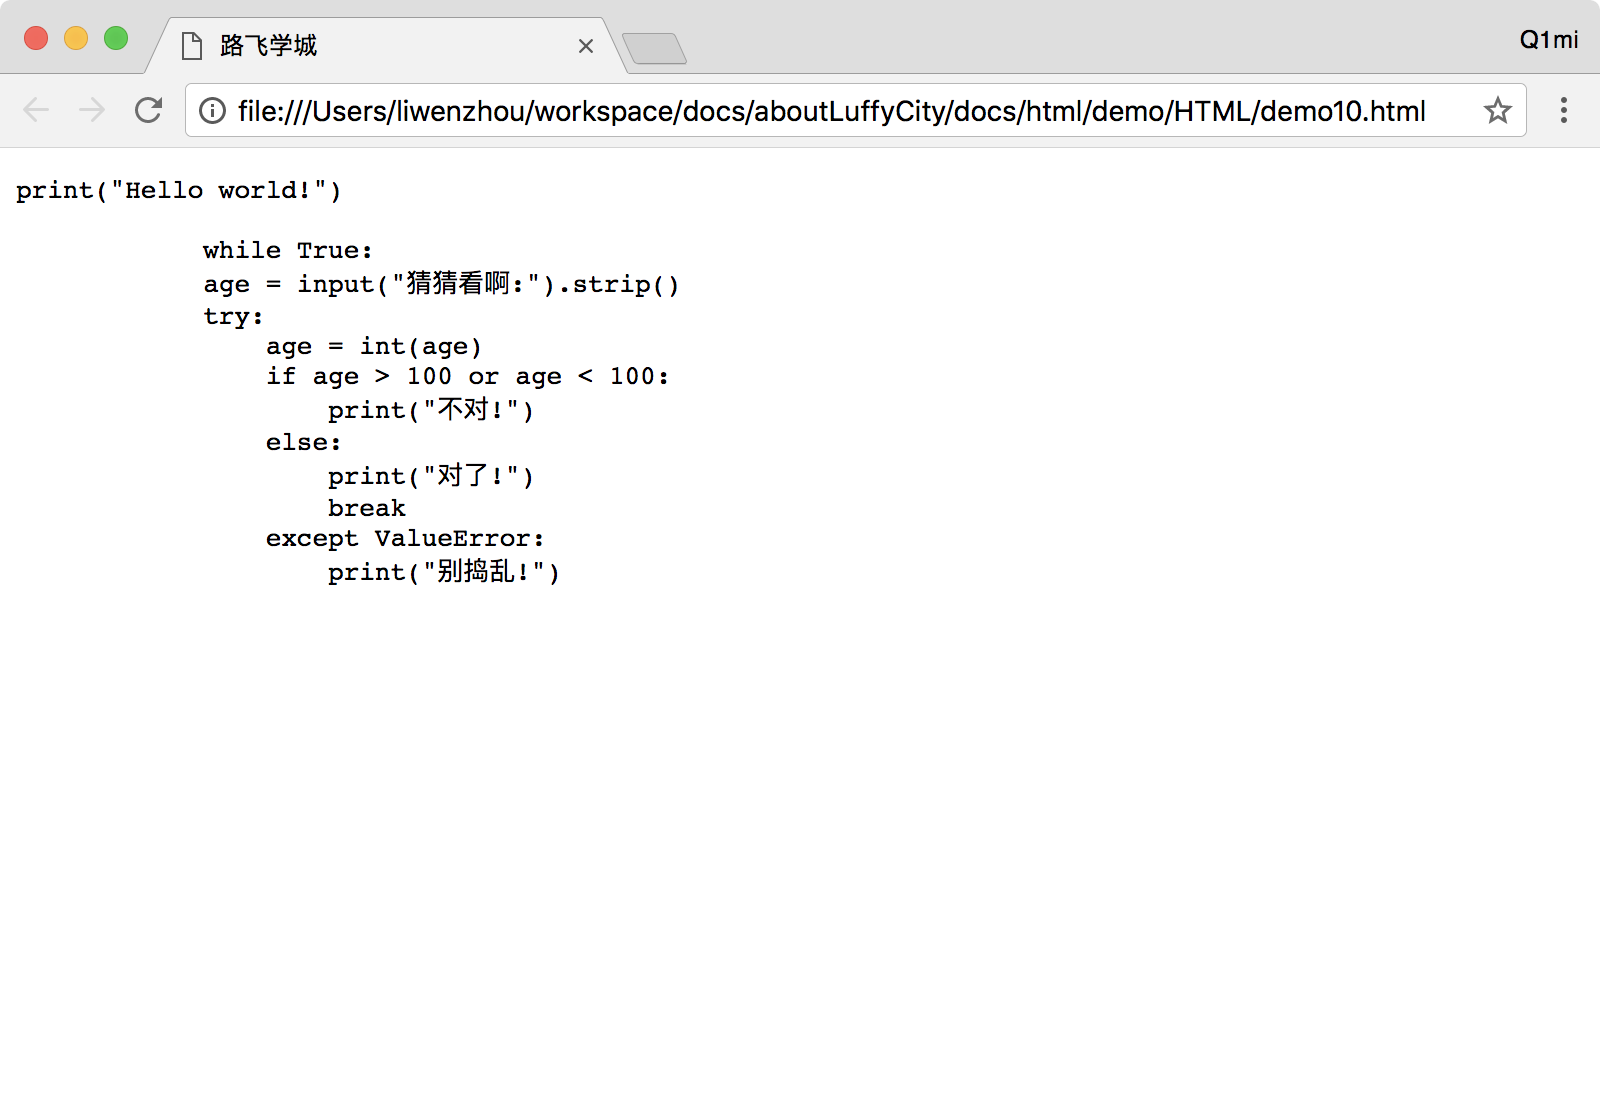
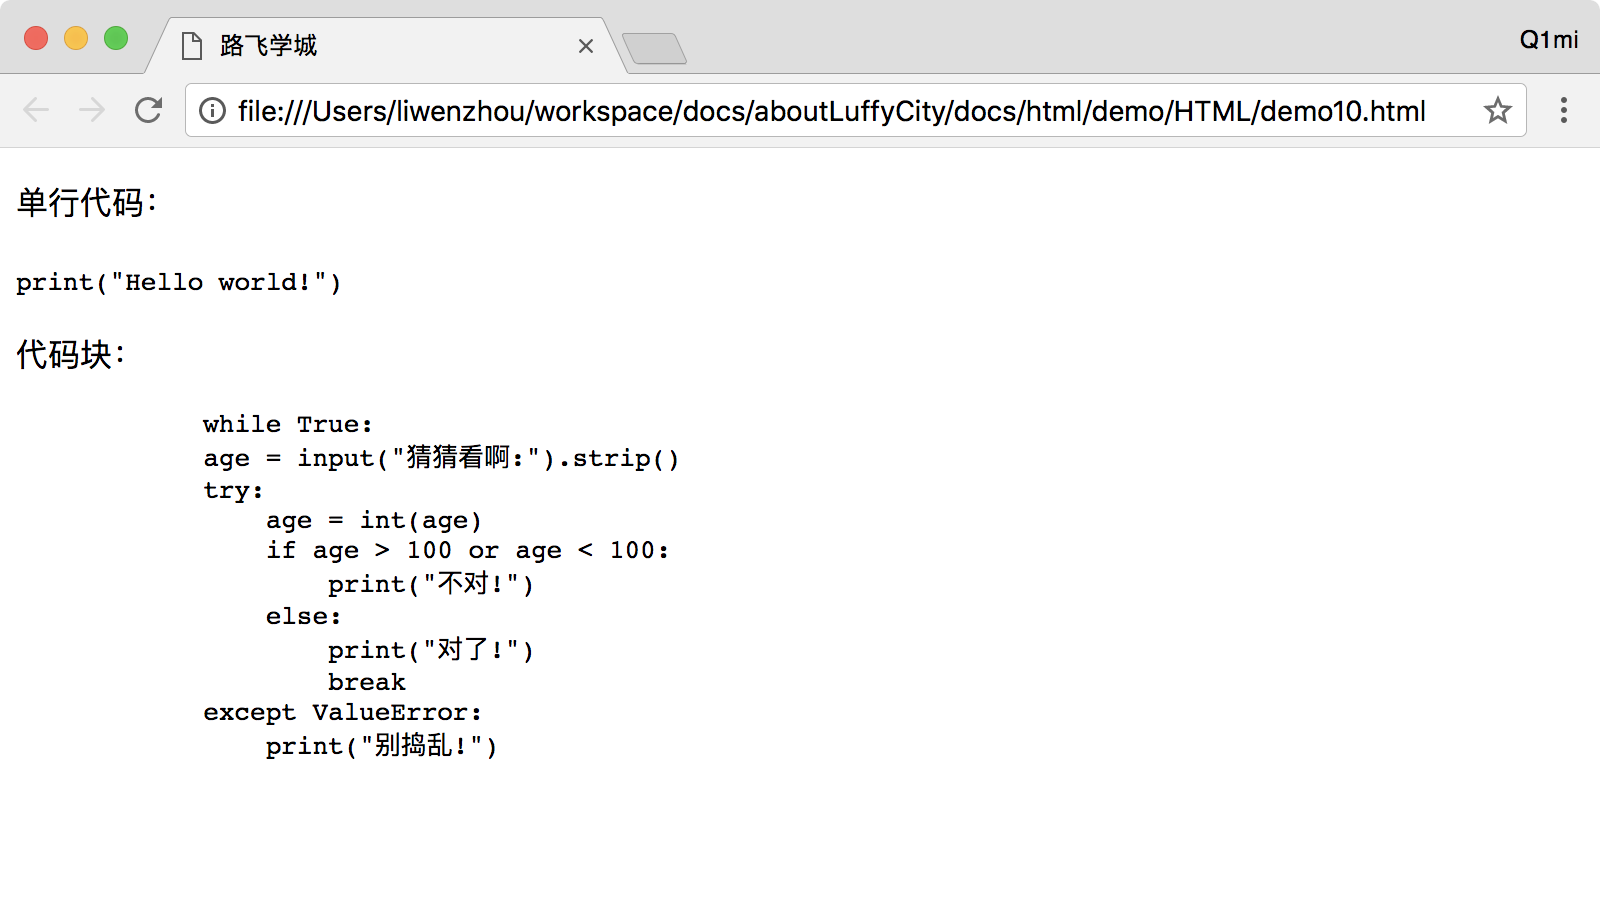
Updates assets/chapter9/html/HTML_12.png
Auto commit by GitBook Editor

diff --git a/html/bodybiao-qian-xiang-guan-nei-rong/biao-shi-dai-ma.md b/html/bodybiao-qian-xiang-guan-nei-rong/biao-shi-dai-ma.md
@@ -10,9 +10,11 @@
         <title>路飞学城</title>
     </head>
     <body>
+        单行代码：
         <code>
             print("Hello world!")
         </code>
+        代码块：
         <pre>
             while True:
             age = input("猜猜看啊:").strip()
